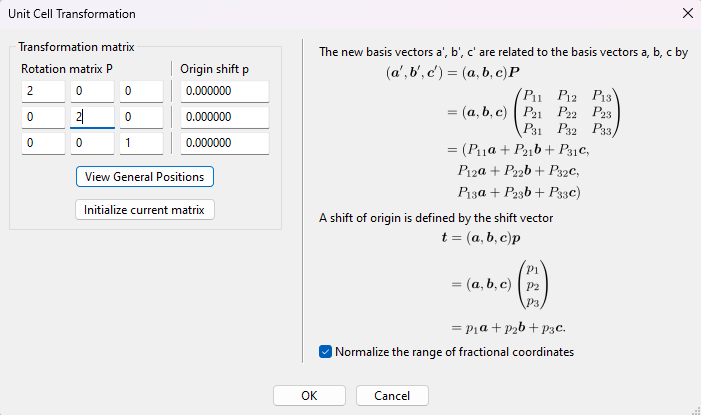
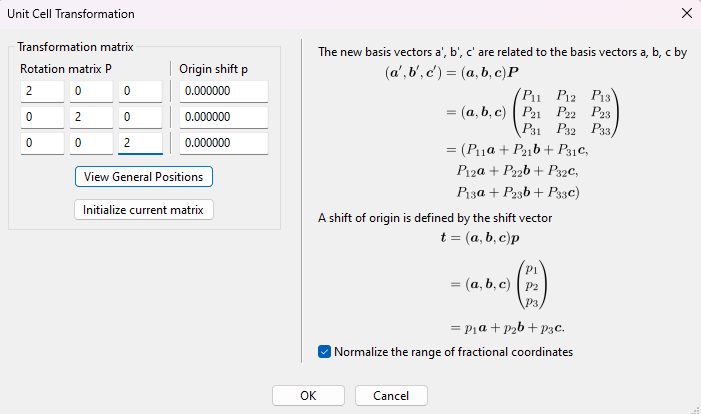
Added to yaml file + made 2x2x2 supercell instead

diff --git a/docs/tutorials/Coreloss/Coreloss.md b/docs/tutorials/Coreloss/Coreloss.md
@@ -182,29 +182,37 @@ Click `Transform...`. This opens up a new window
 
 ![Transformation window](transform_window.png)
 
-To create the 2x2x1 supercell, the transformation matrix is rather simple: make 2 of the diagonal terms 2 like in the figure above (so it becomes 2x larger in 2 directions) and click `Ok`. Select `Search atoms in the new unit-cell and add them as new sites` in the next pop-up window.
+To create the 2x2x2 supercell, the transformation matrix is rather simple: make the diagonal values 2 like in the figure above (so it becomes 2x larger in all directions) and click `Ok`. Select `Search atoms in the new unit-cell and add them as new sites` in the next pop-up window.
 
 Now that the supercell has been generated, we must save it and turn it into a cell file. Click `File -> Export Data` and save it as  `hbn.cif` file (saving it as a `cell` file is not an option). We can use `cif2cell hbn.cif` to get information on how to make the new cell - we can change the `cell` file to look like this
 
 *hbn.cell*
 ```
 %block lattice_abc
-5 5 2.5
+5 5 5
 60 60 60
 %endblock lattice_abc
 
 %block positions_frac
 B:exi       0.0000000   0.0000000   0.0000000
+B       0.0000000   0.0000000   0.5000000
 B       0.0000000   0.5000000   0.0000000
+B       0.0000000   0.5000000   0.5000000
 B       0.5000000   0.0000000   0.0000000
+B       0.5000000   0.0000000   0.5000000
 B       0.5000000   0.5000000   0.0000000
-N       0.1250000   0.1250000   0.2500000
-N       0.1250000   0.6250000   0.2500000
-N       0.6250000   0.1250000   0.2500000
-N       0.6250000   0.6250000   0.2500000
+B       0.5000000   0.5000000   0.5000000
+N       0.1250000   0.1250000   0.1250000
+N       0.1250000   0.1250000   0.6250000
+N       0.1250000   0.6250000   0.1250000
+N       0.1250000   0.6250000   0.6250000
+N       0.6250000   0.1250000   0.1250000
+N       0.6250000   0.1250000   0.6250000
+N       0.6250000   0.6250000   0.1250000
+N       0.6250000   0.6250000   0.6250000
 %endblock positions_frac
 
-kpoints_mp_grid 12 12 12
+kpoints_mp_grid 6 6 6
 
 symmetry_generate
 
@@ -212,15 +220,15 @@ symmetry_generate
 B:exi 2|1.2|12|14|16|20:21(qc=8){1s1.00}
 %endblock species_pot
 
-spectral_kpoint_mp_grid 10 10 10
+spectral_kpoint_mp_grid 5 5 5
 ```
 
-Specifying 1 of the borons to be called `B:exi` and making changing the potential block to only affect that means that we simulate only 1 of the boron atoms losing that electron - by doing this we prevent the interaction problem mentioned above. Re-run Castep and Optados. There will now be 7 output files, rather than just 2 - there is a core edge output for every atom - so `bn_B1K1_core_edge.dat` is the file with the missing 1s electron. Let's plot it on xmgrace, using the same method as before. This is the output:
+With double the size of the supercell, you may also halve the kpoints: this allows it to be calculated faster without losing accuracy.
+
+Specifying 1 of the boron atoms to be called `B:exi` and making changing the potential block to only affect that means that we simulate only 1 of the boron atoms losing that electron - by doing this we prevent the interaction problem mentioned above. Re-run Castep and Optados. There will now be 16 output files, rather than just 2 - there is a core edge output for every atom - so `bn_B1K1_core_edge.dat` is the core edge result for the boron with the missing 1s electron. Let's plot it on xmgrace, using the same method as before. This is the output:
 
 ![Supercell 1s output](super.png)
-
-
- and carry out another core-loss B K-edge simulation.  Compare the spectra to that from the primitive cell.  Construct larger and larger unit cells until the spectrum stops changing with increasing separation between the periodic images.  
+ 
 
 Other things to try include:
 
